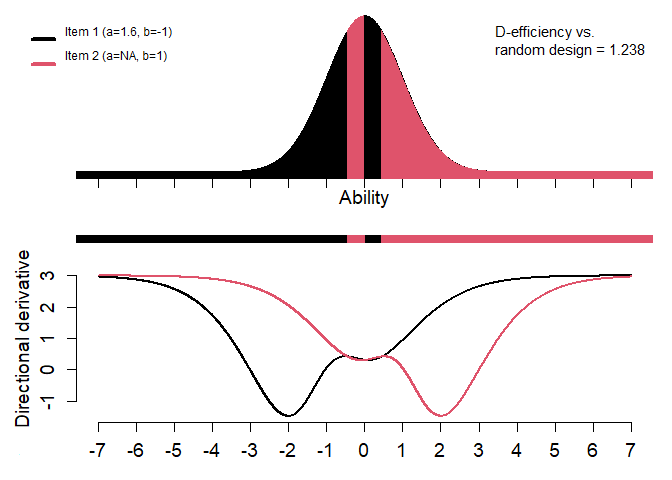
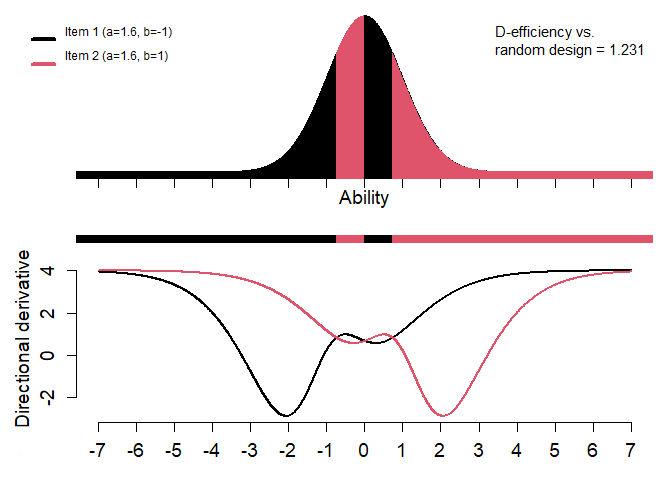
update documents and examples

diff --git a/docs/index.html b/docs/index.html
@@ -107,8 +107,9 @@
 <p>This is a basic example which shows you how to solve a common problem:</p>
 <div class="sourceCode" id="cb3"><pre class="downlit sourceCode r">
 <code class="sourceCode R"><span><span class="kw"><a href="https://rdrr.io/r/base/library.html" class="external-link">library</a></span><span class="op">(</span><span class="va"><a href="https://github.com/scenic555/optical.git" class="external-link">optical</a></span><span class="op">)</span></span>
-<span><span class="co"># 1PL-models with common discrimination parameter</span></span>
-<span><span class="va">ip</span> <span class="op">&lt;-</span> <span class="fu"><a href="https://rdrr.io/r/base/cbind.html" class="external-link">cbind</a></span><span class="op">(</span><span class="fu"><a href="https://rdrr.io/r/base/c.html" class="external-link">c</a></span><span class="op">(</span><span class="fl">1.6</span>, <span class="cn">NA</span><span class="op">)</span>, <span class="fu"><a href="https://rdrr.io/r/base/c.html" class="external-link">c</a></span><span class="op">(</span><span class="op">-</span><span class="fl">1</span>, <span class="fl">1</span><span class="op">)</span><span class="op">)</span></span>
+<span></span>
+<span><span class="co"># 2PL-models with difficulty and common discrimination parameters</span></span>
+<span><span class="va">ip</span> <span class="op">&lt;-</span> <span class="fu"><a href="https://rdrr.io/r/base/cbind.html" class="external-link">cbind</a></span><span class="op">(</span><span class="fu"><a href="https://rdrr.io/r/base/c.html" class="external-link">c</a></span><span class="op">(</span><span class="fl">1.6</span>, <span class="fl">1.6</span><span class="op">)</span>,  <span class="fu"><a href="https://rdrr.io/r/base/c.html" class="external-link">c</a></span><span class="op">(</span><span class="op">-</span><span class="fl">1</span>, <span class="fl">1</span><span class="op">)</span><span class="op">)</span></span>
 <span></span>
 <span><span class="va">yyy</span> <span class="op">&lt;-</span> <span class="fu"><a href="reference/optical.html">optical</a></span><span class="op">(</span><span class="va">ip</span>, oc<span class="op">=</span><span class="st">"D"</span>, uncert<span class="op">=</span><span class="cn">FALSE</span>, <span class="va">ipop</span>,</span>
 <span>               imf<span class="op">=</span><span class="fu"><a href="https://rdrr.io/r/base/c.html" class="external-link">c</a></span><span class="op">(</span><span class="fl">0.005</span>, <span class="fl">0.01</span>, <span class="fl">0.02</span>, <span class="fl">0.05</span>, <span class="fl">0.1</span>, <span class="fl">0.2</span>, <span class="fl">0.45</span><span class="op">)</span>,</span>
@@ -117,9 +118,17 @@
 <span>               nsp<span class="op">=</span><span class="fu"><a href="https://rdrr.io/r/base/c.html" class="external-link">c</a></span><span class="op">(</span><span class="fl">0.001</span>, <span class="fl">0.0001</span>, <span class="fl">0.0001</span>, <span class="fl">0.00001</span>, <span class="fl">0.00001</span>, <span class="fl">0.00001</span><span class="op">)</span>,</span>
 <span>               sss<span class="op">=</span><span class="fl">0.001</span>, falpha<span class="op">=</span><span class="fl">1.08</span>, ig<span class="op">=</span><span class="fl">3</span>, ex<span class="op">=</span><span class="fl">0</span><span class="op">)</span></span>
 <span><span class="co">#&gt; [1;31m---&gt; Outer iteration = 1 [0m</span></span>
-<span><span class="co">#&gt; ++++++++++++++++++++</span></span>
+<span><span class="co">#&gt; ++++++++++++++++++</span></span>
 <span><span class="co">#&gt; [1;31m---&gt; Adapt grid; outer iteration = 2 [0m</span></span>
 <span><span class="co">#&gt; ++</span></span>
+<span></span>
+<span><span class="co"># Table of interval boundaries for optimal design with items and probabilities</span></span>
+<span><span class="va">yyy</span><span class="op">$</span><span class="va">ht</span></span>
+<span><span class="co">#&gt;      Lower    Upper Item Probability</span></span>
+<span><span class="co">#&gt; 1     -Inf -0.73445    1   0.2313373</span></span>
+<span><span class="co">#&gt; 2 -0.73445  0.00005    2   0.2686827</span></span>
+<span><span class="co">#&gt; 3  0.00005  0.73445    1   0.2686428</span></span>
+<span><span class="co">#&gt; 4  0.73445      Inf    2   0.2313373</span></span>
 <span></span>
 <span><span class="fu"><a href="reference/drawdesign.html">drawdesign</a></span><span class="op">(</span>yyy<span class="op">=</span><span class="va">yyy</span>, ip<span class="op">=</span><span class="va">ip</span>, ylowl<span class="op">=</span><span class="op">-</span><span class="fl">1000</span>, refline<span class="op">=</span><span class="fl">0.002</span>, layout<span class="op">=</span><span class="fl">1</span><span class="op">)</span></span></code></pre></div>
 <p><img src="reference/figures/README-example-1.png" width="100%"></p>

diff --git a/docs/reference/optical.html b/docs/reference/optical.html
@@ -176,8 +176,8 @@ has converged, otherwise not).</p></dd>
 <dd><p>interval boundaries for optimal solution.</p></dd>
 
 <dt>ht</dt>
-<dd><p>Refine table for interval boundaries for optimal design with calibrated
-item and probability.</p></dd>
+<dd><p>Refined table of interval boundaries for optimal design with
+calibrated items and their corresponding probabilities</p></dd>
 
 <dt>mooiter</dt>
 <dd><p>monitoring iterations; information about each iteration to produce
@@ -214,7 +214,7 @@ Frank Miller (<a href="mailto:frank.miller@liu.se">frank.miller@liu.se</a>)</p>
 
     <div id="ref-examples">
     <h2>Examples</h2>
-    <div class="sourceCode"><pre class="sourceCode r"><code><span class="r-in"><span><span class="co"># 2PL-models with discriminat and difficulty parameters</span></span></span>
+    <div class="sourceCode"><pre class="sourceCode r"><code><span class="r-in"><span><span class="co"># 2PL-models with difficulty and common discrimination parameters</span></span></span>
 <span class="r-in"><span><span class="va">ip</span> <span class="op">&lt;-</span> <span class="fu"><a href="https://rdrr.io/r/base/cbind.html" class="external-link">cbind</a></span><span class="op">(</span><span class="fu"><a href="https://rdrr.io/r/base/c.html" class="external-link">c</a></span><span class="op">(</span><span class="fl">1.6</span>, <span class="fl">1.6</span><span class="op">)</span>,<span class="fu"><a href="https://rdrr.io/r/base/c.html" class="external-link">c</a></span><span class="op">(</span><span class="op">-</span><span class="fl">1</span>, <span class="fl">1</span><span class="op">)</span><span class="op">)</span></span></span>
 <span class="r-in"><span></span></span>
 <span class="r-in"><span><span class="va">yyy</span> <span class="op">&lt;-</span> <span class="fu">optical</span><span class="op">(</span><span class="va">ip</span>, oc<span class="op">=</span><span class="st">"D"</span>, uncert<span class="op">=</span><span class="cn">FALSE</span>, <span class="va">ipop</span>,</span></span>
@@ -229,7 +229,7 @@ Frank Miller (<a href="mailto:frank.miller@liu.se">frank.miller@liu.se</a>)</p>
 <span class="r-out co"><span class="r-pr">#&gt;</span> ++</span>
 <span class="r-in"><span></span></span>
 <span class="r-in"><span></span></span>
-<span class="r-in"><span><span class="co"># Table of optimal design with interval boundaries, items and probabilities</span></span></span>
+<span class="r-in"><span><span class="co"># Table of interval boundaries for optimal design with items and probabilities</span></span></span>
 <span class="r-in"><span><span class="va">yyy</span><span class="op">$</span><span class="va">ht</span></span></span>
 <span class="r-out co"><span class="r-pr">#&gt;</span>      Lower    Upper Item Probability</span>
 <span class="r-out co"><span class="r-pr">#&gt;</span> 1     -Inf -0.73445    1   0.2313373</span>
@@ -251,7 +251,7 @@ Frank Miller (<a href="mailto:frank.miller@liu.se">frank.miller@liu.se</a>)</p>
 <span class="r-out co"><span class="r-pr">#&gt;</span> <span style="color: #BB0000; font-weight: bold;">---&gt; Adapt grid; outer iteration = 2 </span></span>
 <span class="r-out co"><span class="r-pr">#&gt;</span> ++</span>
 <span class="r-in"><span></span></span>
-<span class="r-in"><span><span class="co"># Table of optimal design with interval boundaries, items and probabilities</span></span></span>
+<span class="r-in"><span><span class="co"># Table of interval boundaries for optimal design with items and probabilities</span></span></span>
 <span class="r-in"><span><span class="va">yyy</span><span class="op">$</span><span class="va">ht</span></span></span>
 <span class="r-out co"><span class="r-pr">#&gt;</span>      Lower    Upper Item Probability</span>
 <span class="r-out co"><span class="r-pr">#&gt;</span> 1     -Inf -0.44545    1   0.3279973</span>

diff --git a/README.md b/README.md
@@ -55,8 +55,9 @@ This is a basic example which shows you how to solve a common problem:
 
 ``` r
 library(optical)
-# 1PL-models with common discrimination parameter
-ip <- cbind(c(1.6, NA), c(-1, 1))
+
+# 2PL-models with difficulty and common discrimination parameters
+ip <- cbind(c(1.6, 1.6),  c(-1, 1))
 
 yyy <- optical(ip, oc="D", uncert=FALSE, ipop,
                imf=c(0.005, 0.01, 0.02, 0.05, 0.1, 0.2, 0.45),
@@ -65,9 +66,17 @@ yyy <- optical(ip, oc="D", uncert=FALSE, ipop,
                nsp=c(0.001, 0.0001, 0.0001, 0.00001, 0.00001, 0.00001),
                sss=0.001, falpha=1.08, ig=3, ex=0)
 #> [1;31m---> Outer iteration = 1 [0m
-#> ++++++++++++++++++++
+#> ++++++++++++++++++
 #> [1;31m---> Adapt grid; outer iteration = 2 [0m
 #> ++
+
+# Table of interval boundaries for optimal design with items and probabilities
+yyy$ht
+#>      Lower    Upper Item Probability
+#> 1     -Inf -0.73445    1   0.2313373
+#> 2 -0.73445  0.00005    2   0.2686827
+#> 3  0.00005  0.73445    1   0.2686428
+#> 4  0.73445      Inf    2   0.2313373
 
 drawdesign(yyy=yyy, ip=ip, ylowl=-1000, refline=0.002, layout=1)
 ```
